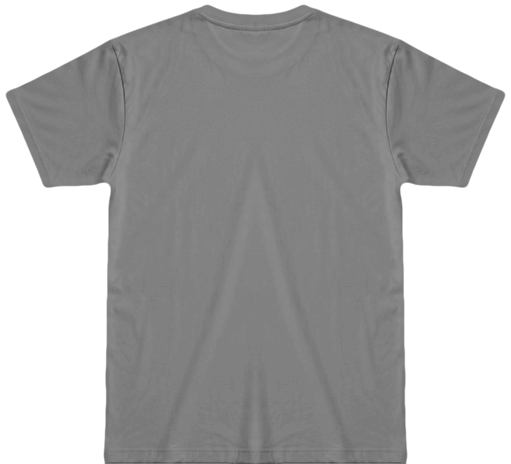
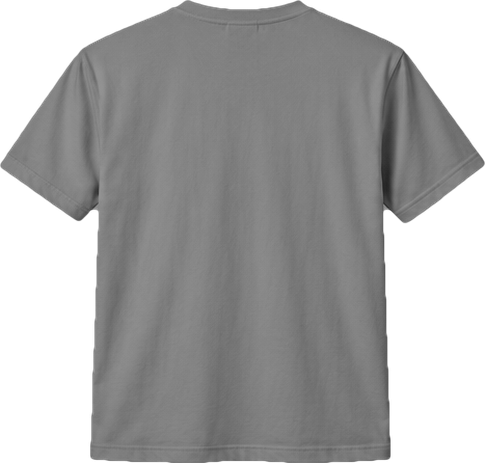
Desain Kaos: mockup baru kiriman Huda (pendek & panjang, depan & belakang)
Claude-Session: https://claude.ai/code/session_018zqcWfFWfKZvrNwrkM77oX

diff --git a/public/desain-kaos.html b/public/desain-kaos.html
@@ -394,14 +394,14 @@
 
   // ---------- gambar kaos: foto mockup polos Willo, diwarnai di kanvas ----------
   // kaos-*.png = peta bayangan abu-abu (128 = kain rata); diwarnai lewat hard-light supaya lipatan tetap terlihat
-  var MK = { depan: [244, 13], belakang: [255, 13], panjang: [252, 11] };   // [tengah badan x, atas kerah y]
+  var MK = { depan: [246, 9], belakang: [240, 9], panjang: [272, 11], 'panjang-belakang': [264, 10] };   // [tengah badan x, atas kerah y]
   var TOP = 46, SK = 2, cache = {};
   Object.keys(MK).forEach(function (k) {
-    var im = new Image(); im.src = '/mockup/kaos-' + k + '.png';
+    var im = new Image(); im.src = '/mockup/kaos-' + k + '.png?v=2';
     im.onload = function () { cache = {}; render(); };
     MK[k].push(im);
   });
-  function mk(lengan, view) { return lengan === 'panjang' ? MK.panjang : MK[view]; }
+  function mk(lengan, view) { return MK[lengan === 'panjang' ? (view === 'belakang' ? 'panjang-belakang' : 'panjang') : view]; }
   function shirtLayer(lengan, view, hex) {
     var key = lengan + view + hex; if (cache[key]) return cache[key];
     var m = mk(lengan, view), im = m[2];
